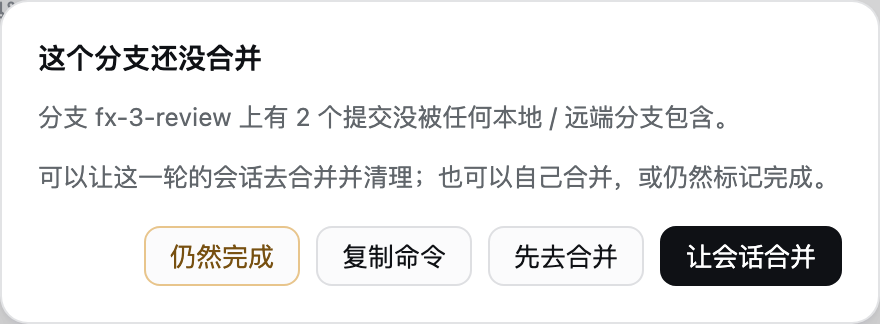
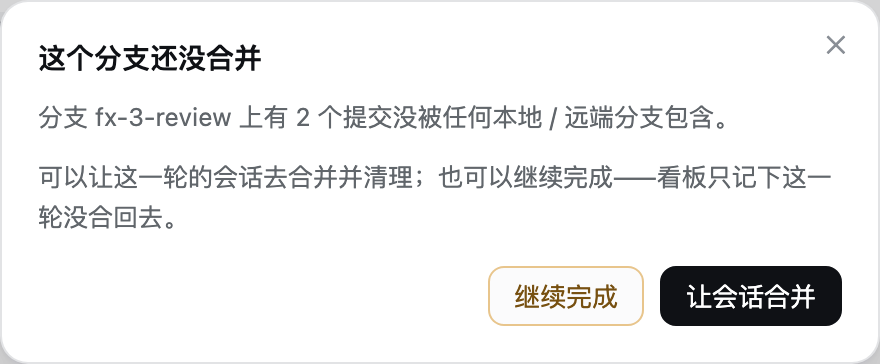
确认卡收敛成「继续完成 / 让会话合并」两个决定，发布 v0.9.1
四个按钮里「先去合并」其实只是关掉弹窗，名字容易被理解成「插件会去合并」，删掉；
「复制命令」也不再和「让会话合并」并排——平时它在分支标末尾的小按钮上，只有会话已归档、
没法让会话合并时才在弹窗里换成主按钮。取消改成右上角一颗 ✕（点外面 / Esc 也一样）。

- 明确「让会话合并」不是预填草稿：它直接给这一轮的会话发一条消息并开跑，卡片回到进行中；
  Git 由会话在沙箱里执行，插件自己不做合并。
- 会话已归档且只剩未提交改动（没有可自动执行的合并命令）时只留「继续完成」，正文提示先去提交。
- 只改 Client：Host、接口、board.json 都没动，刷新页面即可。
- 自查：Client 中英文各 23 项（新增：只有两个决定、✕ 不发请求、有会话时不再出现复制命令、
  归档时复制命令变主按钮、归档 + 只有未提交时只剩「继续完成」）；Host 23 项与 0.7.x 回归照旧。

diff --git a/client.js b/client.js
@@ -322,6 +322,7 @@ window.__ModuleLoader__.load({
 /* 点完成时的确认：比编辑抽屉轻，居中一张小卡 */
 .fxk-overlay[data-align="center"] { align-items: center; justify-content: center; padding: 24px; }
 .fxk-confirm {
+  position: relative;
   width: min(440px, 100%);
   display: flex; flex-direction: column; gap: 10px;
   padding: 18px;
@@ -329,6 +330,16 @@ window.__ModuleLoader__.load({
   background: var(--fxk-card); box-shadow: var(--fxk-shadow);
   animation: fxk-pop 140ms ease-out;
 }
+/* 取消不是第三个决定，只是关掉：做成右上角那颗 ✕（点外面 / Esc 也一样） */
+.fxk-confirm-close {
+  position: absolute; top: 10px; right: 10px;
+  width: 22px; height: 22px; padding: 0;
+  display: inline-flex; align-items: center; justify-content: center;
+  border: 0; border-radius: 6px; background: transparent;
+  color: var(--fxk-text-3); font-size: 13px; line-height: 1; cursor: pointer;
+}
+.fxk-confirm-close:hover { background: var(--fxk-hover); color: var(--fxk-text); }
+.fxk-confirm-close:focus-visible { outline: 2px solid color-mix(in srgb, var(--fxk-link) 70%, transparent); outline-offset: 1px; }
 @keyframes fxk-pop { from { transform: translateY(6px); opacity: .7; } to { transform: none; opacity: 1; } }
 .fxk-confirm-title { font-size: 14px; line-height: 20px; font-weight: 600; color: var(--fxk-text); }
 .fxk-confirm-text { font-size: 12.5px; line-height: 20px; color: var(--fxk-text-2); }
@@ -3725,6 +3736,17 @@ window.__ModuleLoader__.load({
                 'aria-modal': 'true',
                 'aria-label': doneConfirmTitle,
               },
+              h(
+                'button',
+                {
+                  type: 'button',
+                  className: 'fxk-confirm-close',
+                  'aria-label': t('关掉这条提示（取消）', 'Close this reminder (cancel)'),
+                  title: t('取消：先不动这张卡片', 'Cancel — leave the card as it is'),
+                  onClick: () => setDoneConfirm(null),
+                },
+                '✕',
+              ),
               h('div', { className: 'fxk-confirm-title' }, doneConfirmTitle),
               h('div', { className: 'fxk-confirm-text' }, mergeSummaryOf(doneConfirm.card)),
               h(
@@ -3732,13 +3754,18 @@ window.__ModuleLoader__.load({
                 { className: 'fxk-confirm-text' },
                 canAskSession
                   ? t(
-                      '可以让这一轮的会话去合并并清理；也可以自己合并，或仍然标记完成。',
-                      'You can let this card’s conversation merge and clean up, merge it yourself, or mark it done anyway.',
+                      '可以让这一轮的会话去合并并清理；也可以继续完成——看板只记下这一轮没合回去。',
+                      'You can let this card’s conversation merge and clean up, or complete anyway — the board just records that nothing was merged back.',
                     )
-                  : t(
-                      '现在标记完成只是记录事实，改动不会自动合回去。',
-                      'Marking it done only records the fact — the changes will not be merged by themselves.',
-                    ),
+                  : doneConfirmMerge && doneConfirmMerge.state === 'unmerged'
+                    ? t(
+                        '这一轮的会话已经归档，看板没法让会话合并；可以复制命令在项目目录里手动合并，或者继续完成。',
+                        'This card’s conversation is archived, so it cannot merge for you; copy the command and run it in the project root, or complete anyway.',
+                      )
+                    : t(
+                        '这一轮的会话已经归档，看板没法让会话合并；检出里还有没提交的改动，先去检出里提交或复制出来，再合并。',
+                        'This card’s conversation is archived, so it cannot merge for you; the checkout has uncommitted changes — commit or copy them first, then merge.',
+                      ),
               ),
               h(
                 'div',
@@ -3755,28 +3782,7 @@ window.__ModuleLoader__.load({
                       void performDone(pending)
                     },
                   },
-                  t('仍然完成', 'Mark done anyway'),
-                ),
-                doneConfirmMerge && doneConfirmMerge.state === 'unmerged'
-                  ? h(
-                      'button',
-                      {
-                        type: 'button',
-                        className: 'fxk-btn',
-                        onClick: () => void copyMergeCommand('merge', doneConfirm.card),
-                      },
-                      t('复制命令', 'Copy command'),
-                    )
-                  : null,
-                h(
-                  'button',
-                  {
-                    type: 'button',
-                    className: canAskSession ? 'fxk-btn' : 'fxk-btn fxk-btn-primary',
-                    autoFocus: !canAskSession,
-                    onClick: () => setDoneConfirm(null),
-                  },
-                  t('先去合并', 'Merge first'),
+                  t('继续完成', 'Complete anyway'),
                 ),
                 canAskSession
                   ? h(
@@ -3790,7 +3796,21 @@ window.__ModuleLoader__.load({
                       },
                       t('让会话合并', 'Let the conversation merge'),
                     )
-                  : null,
+                  : doneConfirmMerge && doneConfirmMerge.state === 'unmerged'
+                    ? h(
+                        'button',
+                        {
+                          type: 'button',
+                          className: 'fxk-btn fxk-btn-primary',
+                          autoFocus: true,
+                          onClick: () => {
+                            void copyMergeCommand('merge', doneConfirm.card)
+                            setDoneConfirm(null)
+                          },
+                        },
+                        t('复制命令', 'Copy command'),
+                      )
+                    : null,
               ),
             ),
           )

diff --git a/README.md b/README.md
@@ -6,7 +6,7 @@
 点「执行」就直接在对应工作区开会话、把卡片内容投进去开跑；跑完、报错、暂停，状态都挂在卡片上，
 回看板就知道做到哪了。
 
-[![version](https://img.shields.io/badge/version-0.9.0-1f6feb?style=flat-square)](CHANGELOG.md)
+[![version](https://img.shields.io/badge/version-0.9.1-1f6feb?style=flat-square)](CHANGELOG.md)
 [![license](https://img.shields.io/badge/license-MIT-3fb950?style=flat-square)](LICENSE)
 [![DSH](https://img.shields.io/badge/DSH-%5E0.2.2--rc.1-8957e5?style=flat-square)](https://github.com/deepseek-ai/deepseek-harness)
 
@@ -109,12 +109,13 @@ v1 不支持拖拽或手动改状态。
   `无改动`（灰）/ `未提交`（琥珀，分支没提交但检出里还有改动）/ `未合并，已删`（红）。
   列头有未合并时补一句 `2 未合并`。展开后是完整分支标，悬停有分支名、提交数、并进哪个分支和可以照着敲的
   `git merge` 命令；末尾那枚小按钮复制合并 / 清理命令。
-- 点「完成」时会先问一句：分支上还有没合并的提交（或检出里还有没提交的文件），就弹一张小卡：
-  「让会话合并 / 复制命令 / 先去合并 / 仍然完成」。会话标题栏则把「✓ 完成」就地变成确认文案，
+- 点「完成」时会先问一句：分支上还有没合并的提交（或检出里还有没提交的文件），就弹一张小卡，
+  只有两个决定：**「继续完成」**（看板只记下这一轮没合回去）和 **「让会话合并」**（把合并交给会话）。
+  右上角 ✕ 取消；会话已归档时「让会话合并」换成「复制命令」。会话标题栏则把「✓ 完成」就地变成确认文案，
   再点一次才标。待审核列不标色——那里的「未合并」是常态。
-- 「让会话合并」把合并这件事交给这张卡片的会话：发一条带仓库、分支、检出和步骤的消息，由模型在沙箱里
-  合并、跑测试、删分支，冲突它会停下来；发出去等于重开一轮，卡片回到进行中。卡片上的复制按钮可以
-  直接拿到合并 / 清理命令，不想让模型动手时自己敲。
+- 「让会话合并」把合并这件事交给这张卡片的会话：**直接发**一条带仓库、分支、检出和步骤的消息（不是预填草稿），
+  由模型在沙箱里合并、跑测试、删分支，冲突它会停下来；发出去等于重开一轮，卡片回到进行中。
+  卡片上的复制按钮可以直接拿到合并 / 清理命令，不想让模型动手时自己敲。
 - 合并状态是**只读 Git 观测**：每仓库最多 60 秒查一次，只查待审核 / 已完成的卡片，不 fetch、不改仓库；
   关掉「设置 → 实验功能 → 在已完成列标出分支合并状态」后，卡片只显示分支名，插件也不再跑 Git。
   `squash` / `rebase` 合并可能认不出来，文案会写「没检测到合并」。

diff --git a/CHANGELOG.md b/CHANGELOG.md
@@ -1,5 +1,20 @@
 # 变更记录
 
+## 0.9.1 — 2026-11-15
+
+- 点完成的确认卡收敛成**两个决定**：「继续完成」和「让会话合并」，右上角一颗 ✕（点外面 / Esc 也一样）。
+  原来四个按钮里「先去合并」其实只是关掉弹窗，名字容易被理解成「插件会去合并」，删掉；
+  「复制命令」也不再和「让会话合并」并排——平时它在分支标末尾的小按钮上，只有会话已归档、
+  没法让会话合并时才出现在弹窗里当主按钮。
+- 「让会话合并」的真实行为说清楚：它**不是**把 prompt 预填进输入框，而是直接给这一轮的会话发一条消息
+  并开始跑（卡片回到进行中，跑完落回待审核）；插件自己不做合并，Git 由会话在沙箱里执行。
+  tooltip 与确认卡的正文都按这个说法写。
+- 会话已归档、且只剩未提交改动（没有可自动执行的合并命令）时，弹窗只留「继续完成」，
+  正文提示先去检出里提交或复制出来——不给一个按了没用处的「复制合并命令」。
+- 只是 Client 的文案与按钮结构：Host、接口、`board.json` 都没动，刷新页面即可。
+- 自查：Client 中英文各 23 项（新增：弹窗只有两个决定、✕ 关掉不发请求、有会话时不再出现复制命令、
+  会话已归档时复制命令变主按钮、归档 + 只有未提交时只剩「继续完成」）；Host 23 项与 0.7.x 回归照旧。
+
 ## 0.9.0 — 2026-11-15
 
 - 设置里多一行提醒：工作树开关下面直接写清楚「点『完成』时如果这条分支还没合并，会先提醒你一次；

diff --git a/docs/DETAIL.md b/docs/DETAIL.md
@@ -128,6 +128,13 @@ and steps — the model does the Git writes under that session's sandbox, and th
 turn). The settings page now spells out the reminder under the worktree switch. Both halves change: reload the
 plugin or restart DSH, then refresh; storage stays at version 2.
 
+0.9.1 is client-only: the completion dialog now offers two decisions — “Complete anyway” and “Let the conversation
+merge” — with a ✕ to cancel; “Copy command” no longer sits beside them (it lives on the branch chip and only
+replaces “Let the conversation merge” when the conversation is archived). If the conversation is archived and only
+uncommitted files are left, the dialog keeps just “Complete anyway” and says to commit or copy them first. The
+“merge” action sends the message immediately (it does not prefill a draft). Refresh the page; nothing changes on the
+Host.
+
 ## Reference
 
 Interface details, autosave, title derivation, card numbering, storage schema, Host endpoints, and the run /
